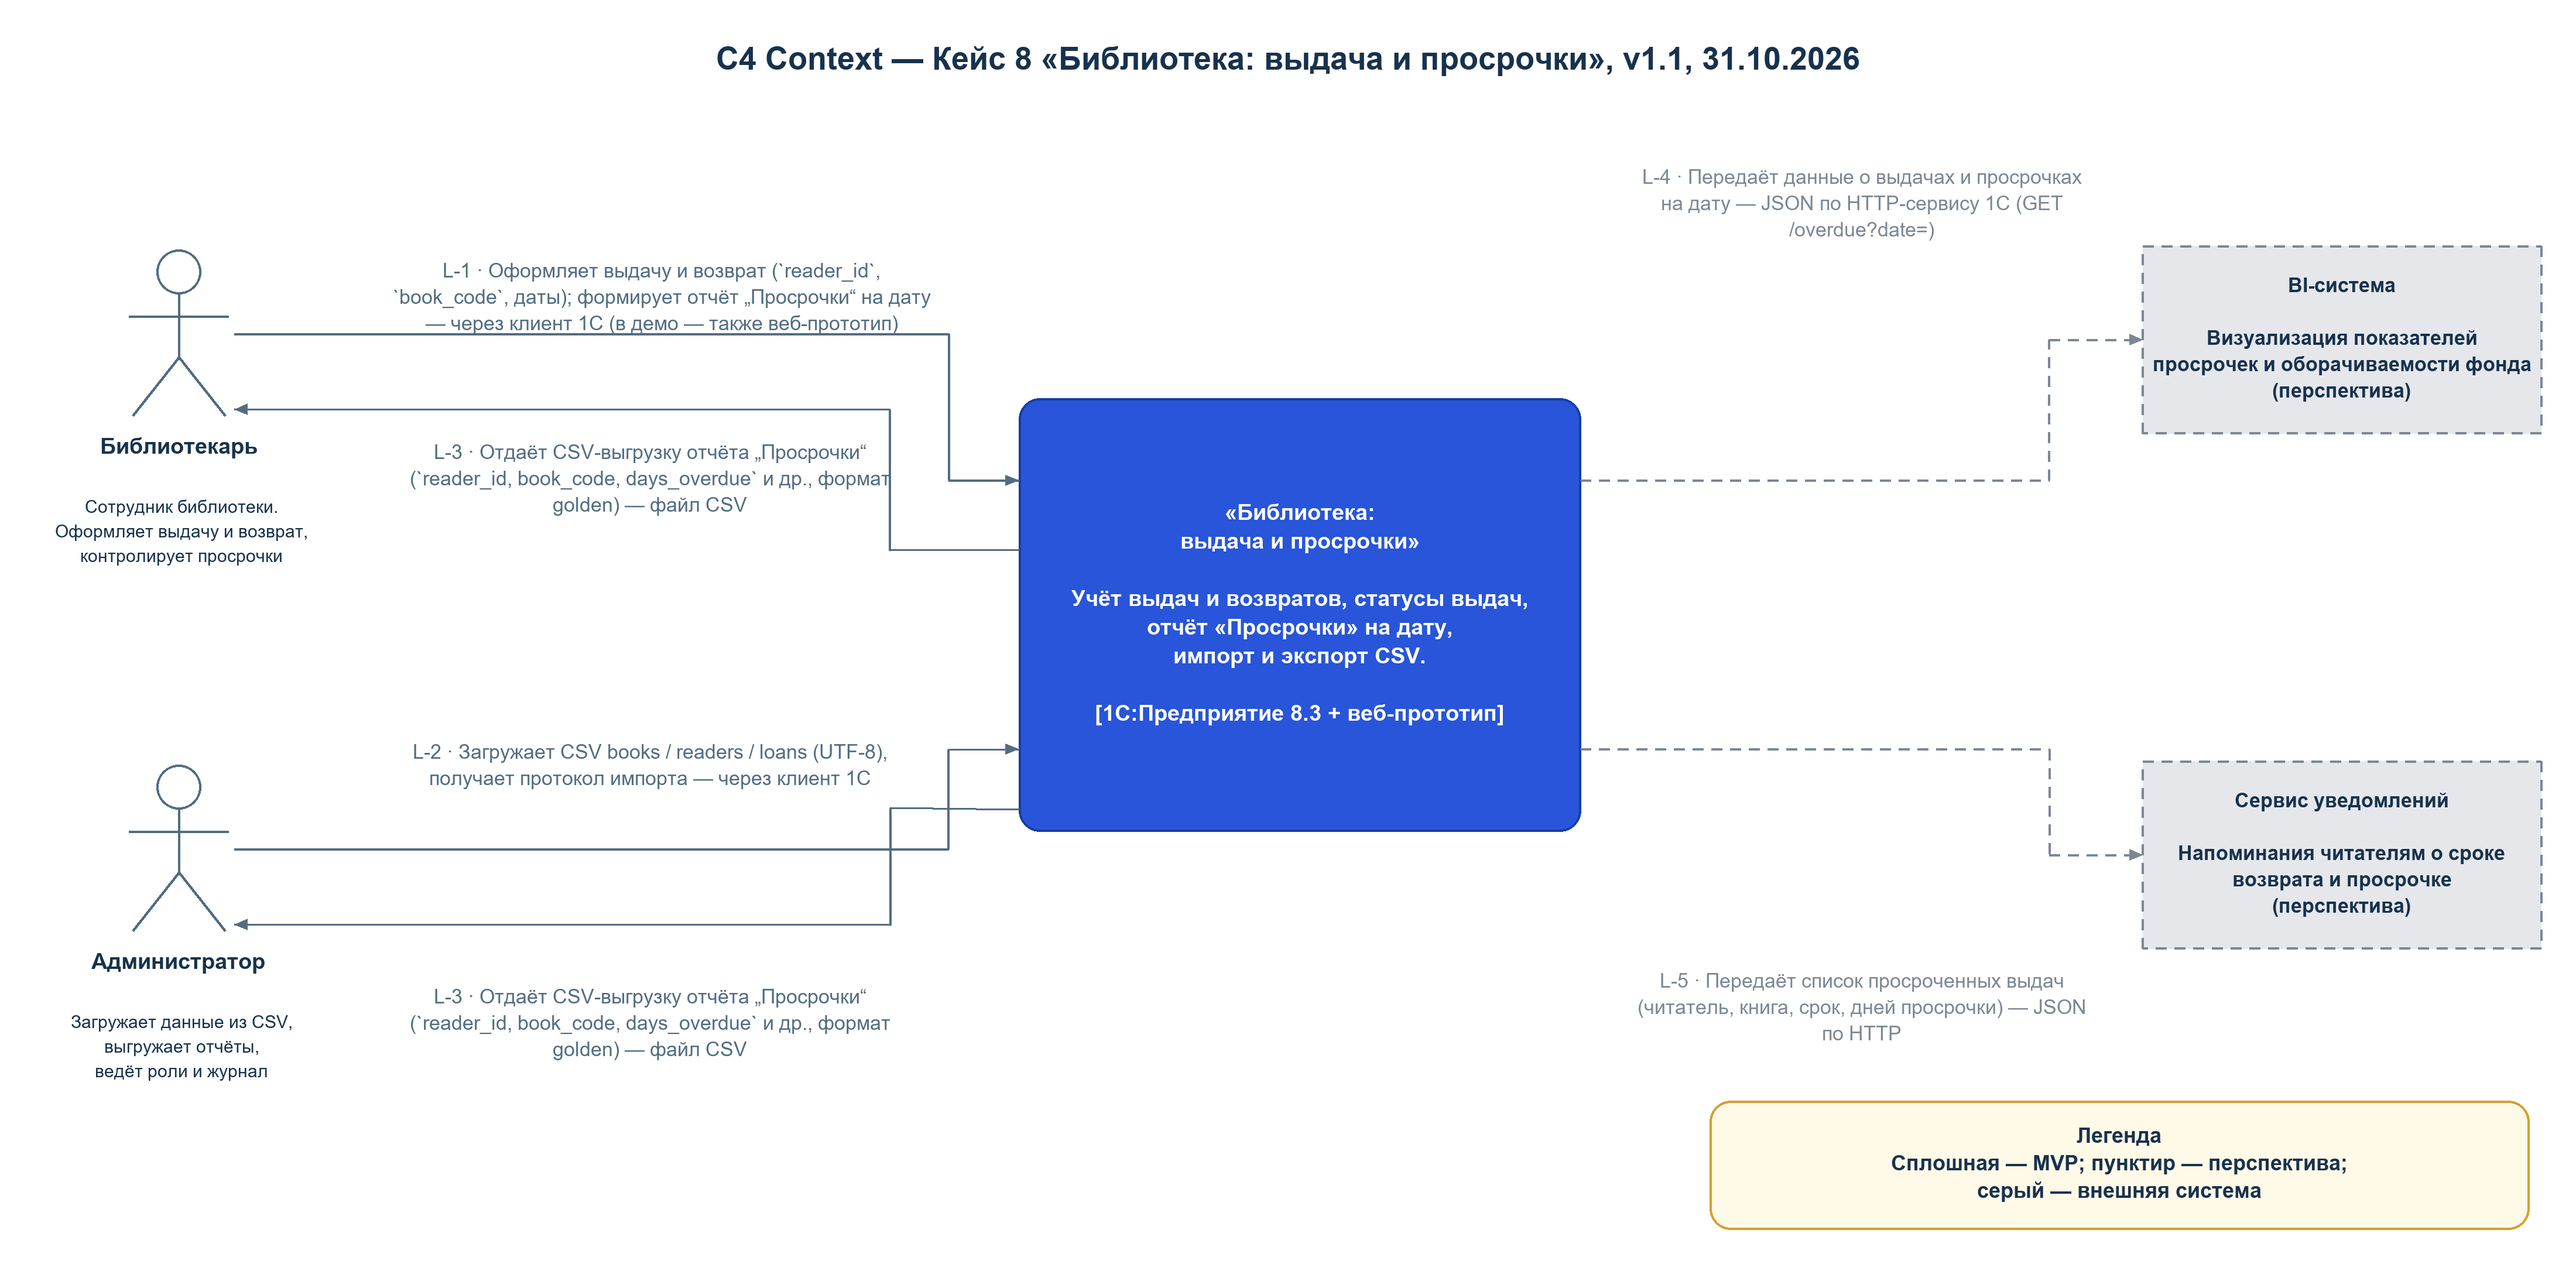
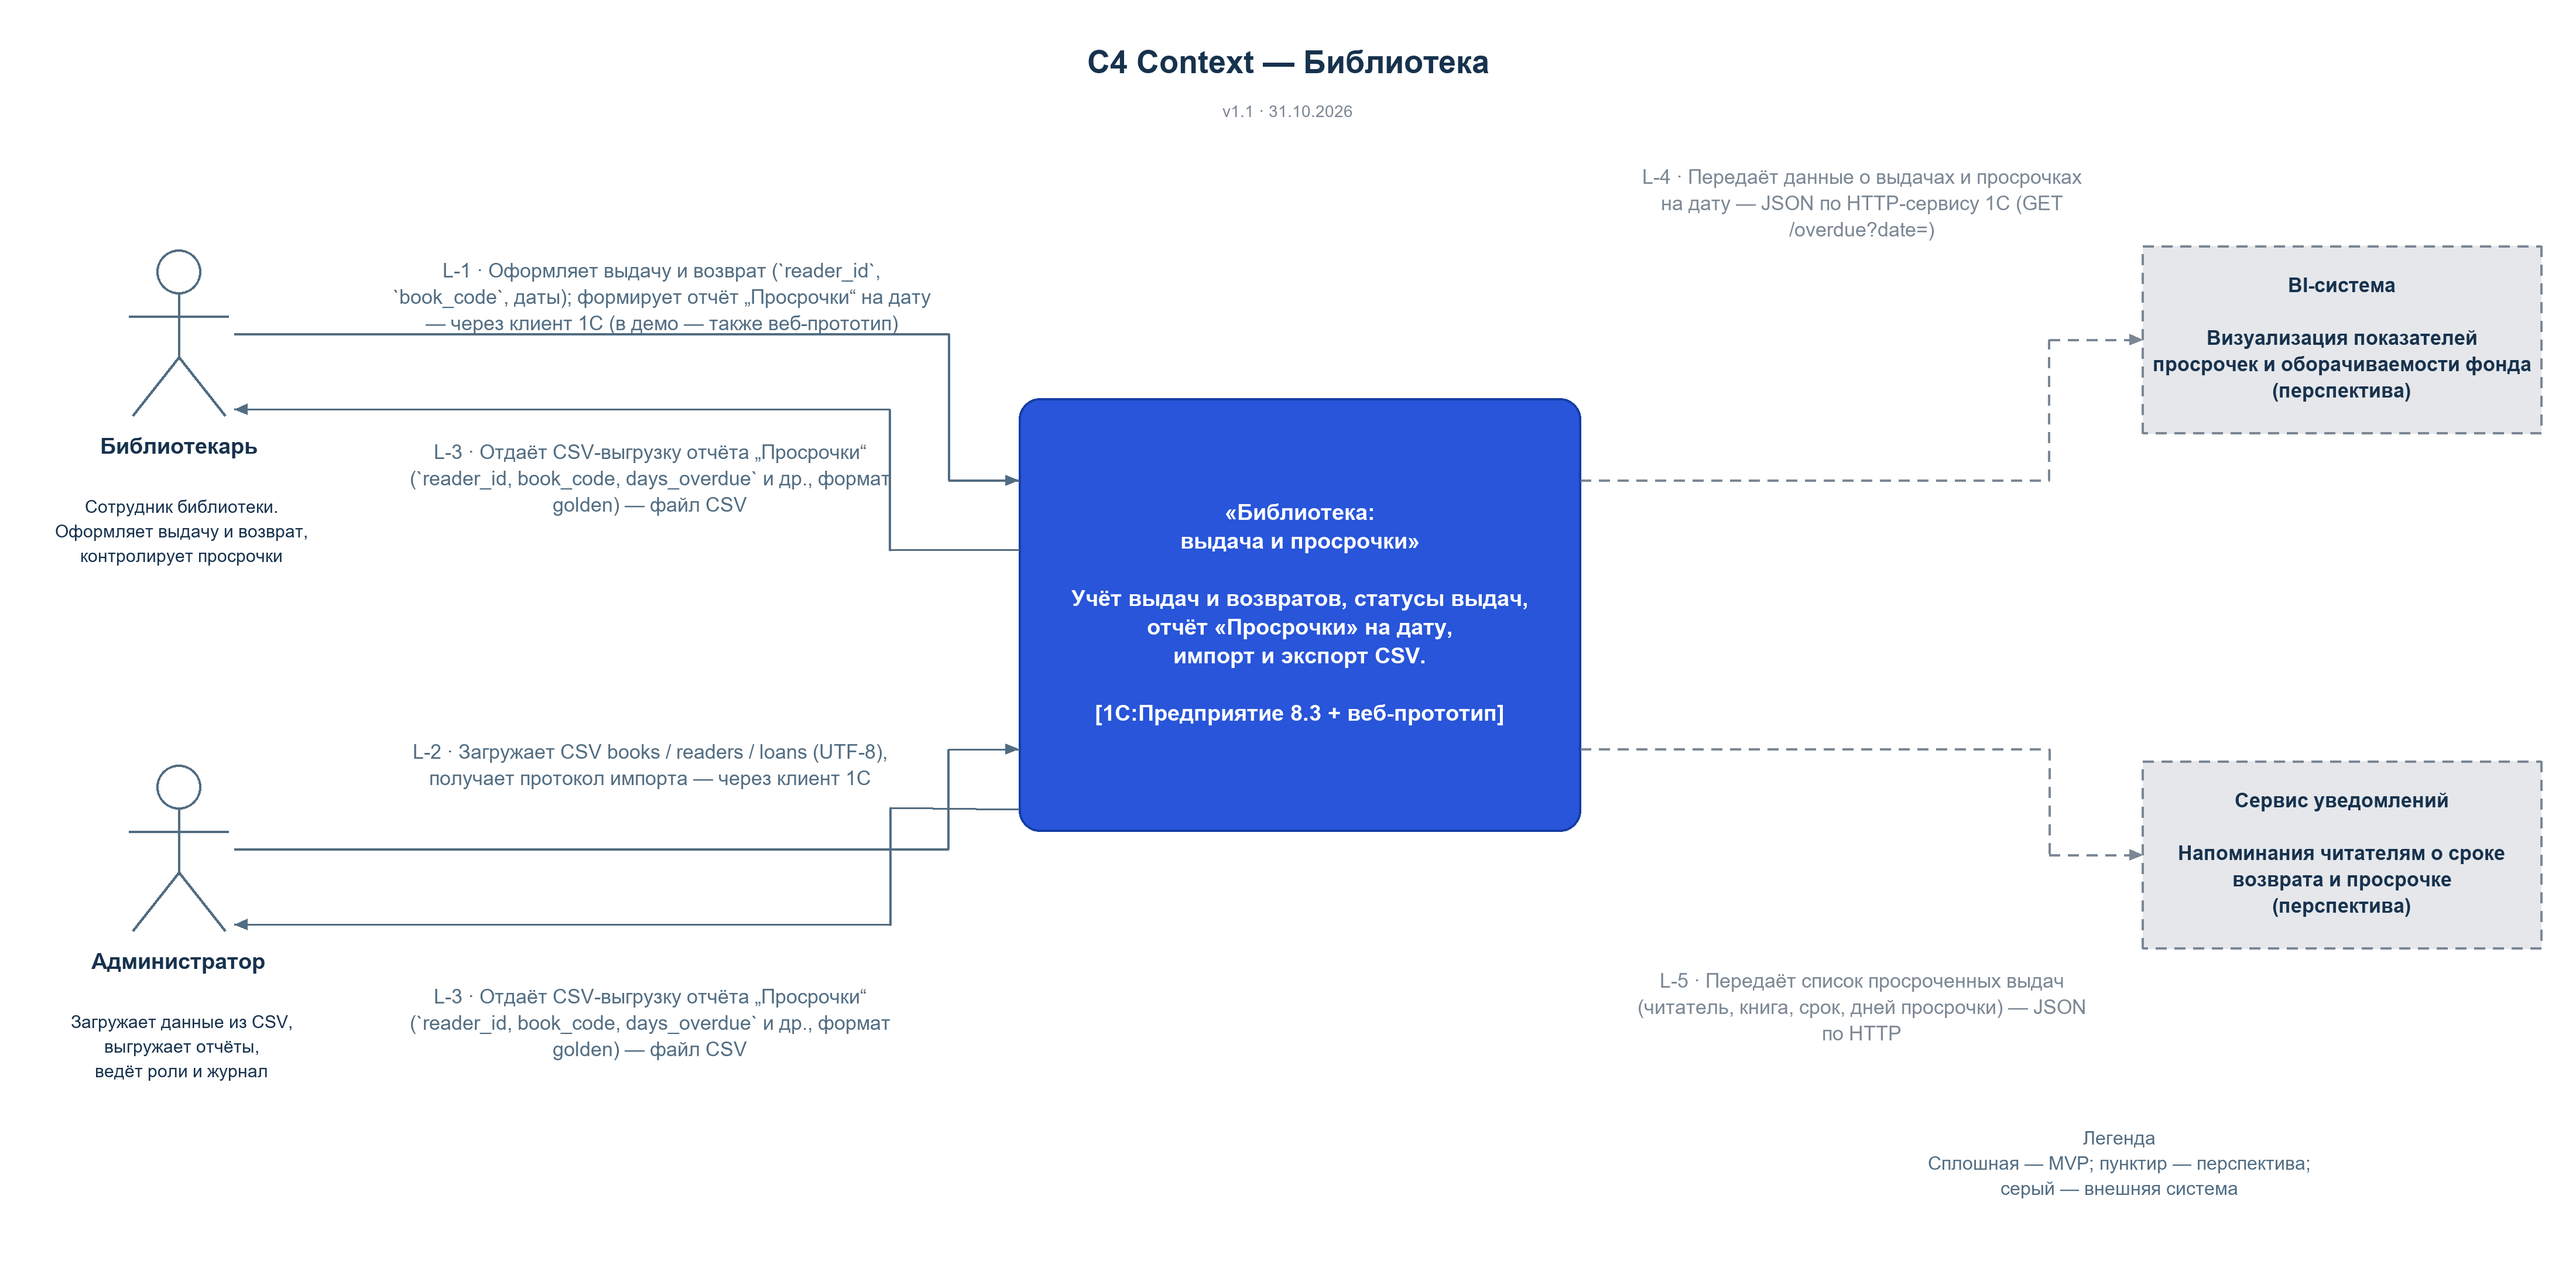
docs: упростить заголовок и легенду схемы C4

Changed region(s): [[0.2802, 0.0309, 0.7161, 0.0618], [0.7473, 0.8655, 0.903, 0.9582]]

diff --git a/docs/hack1/c4-context.md b/docs/hack1/c4-context.md
@@ -56,7 +56,7 @@
 2. В каждом элементе — название жирным и одна строка описания из §1.
 3. Связи L-1…L-5 — стрелки с подписями из §2 дословно. Перспективные связи (L-4, L-5) и рамки перспективных систем — **пунктиром**.
 4. Легенда в углу: «сплошная — MVP, пунктир — перспектива; серый — внешняя система».
-5. Заголовок: «C4 Context — Кейс 8 „Библиотека: выдача и просрочки“, v1.1, 31.10.2026».
+5. Заголовок: «C4 Context — Библиотека»; версию v1.1 и дату 31.10.2026 указать отдельной строкой.
 6. Сохранить `c4-context.drawio` и экспорт `c4-context.png` в `/docs/hack1`.
 
 Набросок для сверки:
